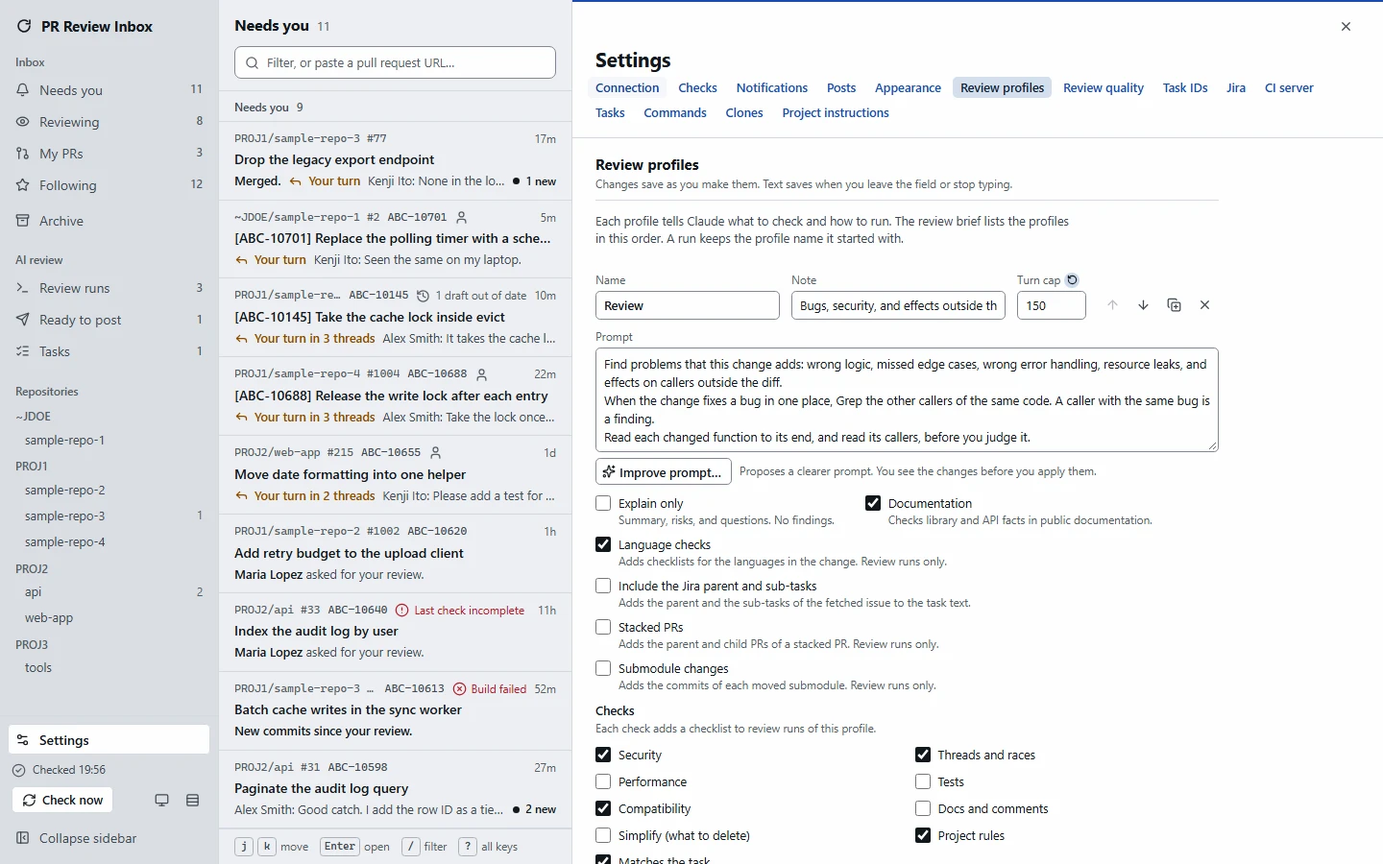
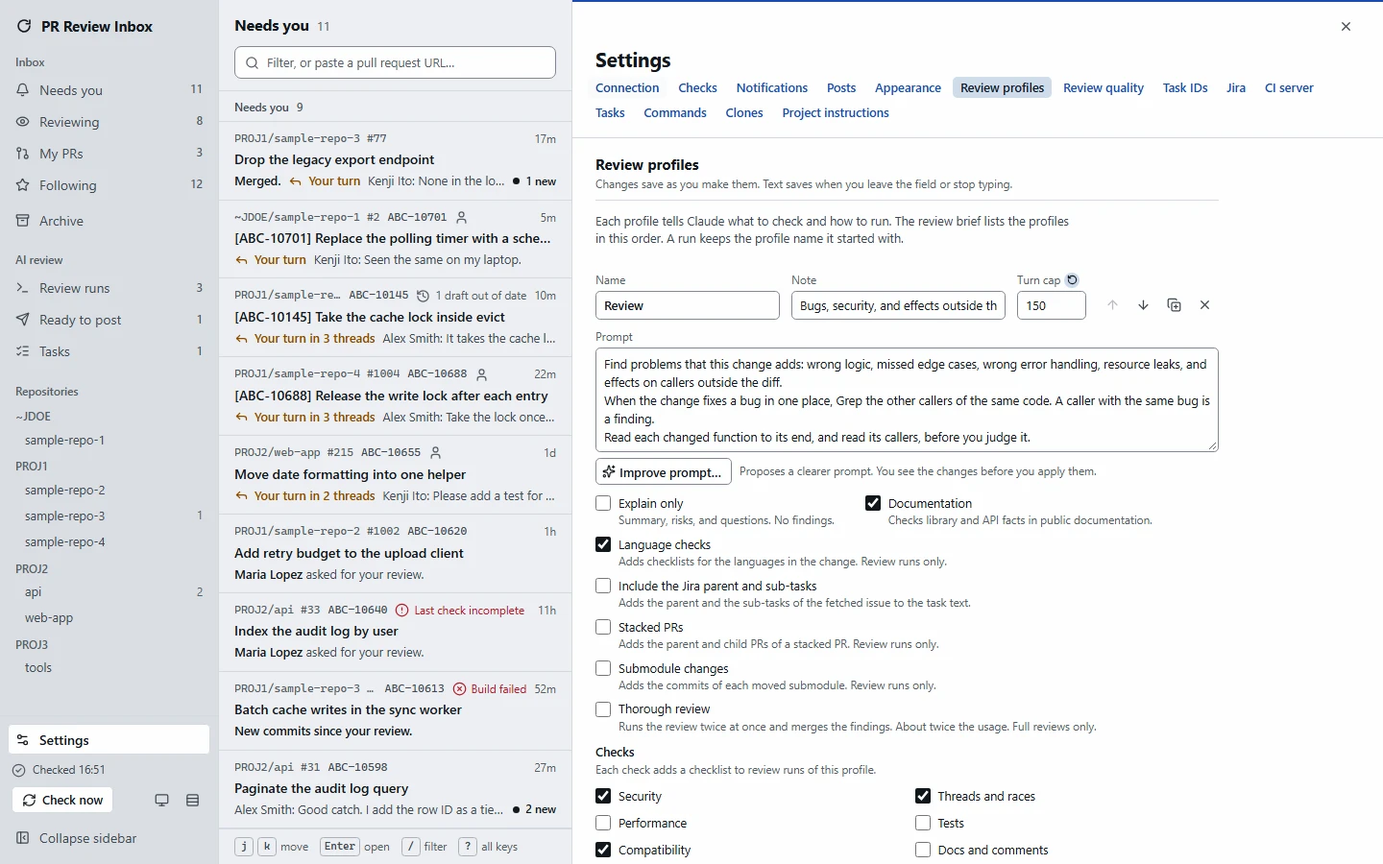
Add the profile switch Thorough review, show how many repeats it hid, and refuse an eval replay of it

Changed region(s): [[0.4062, 0.8089, 0.7812, 1.0]]

diff --git a/src/web/review/model.ts b/src/web/review/model.ts
@@ -695,6 +695,8 @@ export const checkChip = (it: ReviewItemDto, checked: boolean) =>
 export function checkText(it: ReviewItemDto): string | null {
   const v = (it.payload as FindingPayload).verify;
   if (!v?.reason.trim()) return null;
+  if (runCopy(it))
+    return `The other run of the Thorough review raised the same point${v.evidence.trim() ? ` (${v.evidence.trim()})` : ""}.`;
   return `Check: ${v.reason.trim()}${v.evidence.trim() ? ` (${v.evidence.trim()})` : ""}`;
 }
 
@@ -707,9 +709,18 @@ export function restoredNote(it: ReviewItemDto): string | null {
   return v === "refuted"
     ? "Refuted by the check. You restored it."
     : v === "duplicate"
-      ? "A duplicate by the check. You restored it."
+      ? runCopy(it)
+        ? "The other run of the Thorough review raised the same point. You restored it."
+        : "A duplicate by the check. You restored it."
       : null;
 }
+
+// docs/plans/review-v2/thorough-review.md D2: mergeRuns marks a hidden copy with verify.by "app", not the check.
+export const runCopy = (it: ReviewItemDto) => (it.payload as FindingPayload).verify?.by === "app";
+
+// thorough-review.md D5: the Run setup line of a Thorough review. null: a one-run review.
+export const runsText = (s: RunSummary | null | undefined) =>
+  s?.runs ? `${s.runs.count} runs at once. ${plural(s.runs.copies, "repeated finding")} hidden.` : null;
 
 // The title of a draft row. A finding from before review v2 has no title, so the row shows its body.
 export const draftTitle = (it: ReviewItemDto) => (it.kind === "finding" && (it.payload as FindingPayload).title?.trim()) || it.body;
@@ -746,11 +757,16 @@ export function ledgerParts(g: DraftGroups, qs: { n: number; first: number } | n
   ];
 }
 
-// spec.md section 1.1: "3 refuted by the check", "1 duplicate". Empty: none.
+// spec.md section 1.1: "3 refuted by the check", "1 duplicate", "2 repeats of the other run". Empty: none.
 export function hiddenParts(hidden: ReviewItemDto[]): string[] {
-  const dup = hidden.filter((i) => (i.payload as FindingPayload).verify?.verdict === "duplicate").length;
-  const refuted = hidden.length - dup;
-  return [refuted ? `${refuted} refuted by the check` : "", dup ? plural(dup, "duplicate") : ""].filter(Boolean);
+  const copies = hidden.filter(runCopy).length;
+  const dup = hidden.filter((i) => (i.payload as FindingPayload).verify?.verdict === "duplicate").length - copies;
+  const refuted = hidden.length - dup - copies;
+  return [
+    refuted ? `${refuted} refuted by the check` : "",
+    dup ? plural(dup, "duplicate") : "",
+    copies ? `${plural(copies, "repeat")} of the other run` : "",
+  ].filter(Boolean);
 }
 
 // docs/plans/review-v2/review-questions.md: the finder questions that the check answered. They are not posted. null: none, or a

diff --git a/tests/web/review-v2.test.ts b/tests/web/review-v2.test.ts
@@ -26,6 +26,7 @@ import {
   phaseParts,
   restoredNote,
   runningText,
+  runsText,
   SHOWN_CHECKS,
   VOLUME_LINE,
 } from "../../src/web/review/model";
@@ -123,6 +124,9 @@ describe("display groups per volume (spec.md section 1.4)", () => {
     expect(checkChip(back, g.checked)).toBe("Not checked");
     expect(restoredNote(back)).toBe("Refuted by the check. You restored it.");
     expect(restoredNote(finding(9, { verify: mark("duplicate") }))).toBe("A duplicate by the check. You restored it.");
+    expect(restoredNote(finding(9, { verify: mark("duplicate", { by: "app" }) }))).toBe(
+      "The other run of the Thorough review raised the same point. You restored it.",
+    );
     // Hidden, or discarded again by the user: no note.
     expect(restoredNote(SET[5] as ReviewItemDto)).toBeNull();
     expect(restoredNote(finding(10, { verify: mark("refuted") }, { status: "discarded" }))).toBeNull();
@@ -237,6 +241,25 @@ describe("ledger and refuted line", () => {
     expect(hiddenParts(groupsOf("balanced").hidden)).toEqual(["1 refuted by the check", "1 duplicate"]);
     expect(hiddenParts([SET[5] as ReviewItemDto, SET[5] as ReviewItemDto])).toEqual(["2 refuted by the check"]);
     expect(hiddenParts([])).toEqual([]);
+    // thorough-review.md D2: a copy that mergeRuns hid is no duplicate by the check.
+    const copy = (id: number) => finding(id, { verify: mark("duplicate", { by: "app" }) }, { status: "discarded" });
+    expect(hiddenParts([...groupsOf("balanced").hidden, copy(20), copy(21)])).toEqual([
+      "1 refuted by the check",
+      "1 duplicate",
+      "2 repeats of the other run",
+    ]);
+    expect(hiddenParts([copy(20)])).toEqual(["1 repeat of the other run"]);
+    const reason = { reason: "Run 1 of 2 raised the same point.", evidence: "src/cache.ts:41", by: "app" };
+    expect(checkText(finding(22, { verify: mark("duplicate", reason) }))).toBe(
+      "The other run of the Thorough review raised the same point (src/cache.ts:41).",
+    );
+  });
+
+  test("the Run setup line of a Thorough review counts its hidden copies (thorough-review.md D5)", () => {
+    expect(runsText(summary({ runs: { count: 2, copies: 3 } }))).toBe("2 runs at once. 3 repeated findings hidden.");
+    expect(runsText(summary({ runs: { count: 2, copies: 1 } }))).toBe("2 runs at once. 1 repeated finding hidden.");
+    expect(runsText(summary())).toBeNull();
+    expect(runsText(null)).toBeNull();
   });
 
   test("the run result leaves out the refuted points; a complete v2 run without findings names the checked areas", () => {

diff --git a/scripts/eval/run.ts b/scripts/eval/run.ts
@@ -119,7 +119,7 @@ export const USAGE = `Usage: bun run eval -- [--replies] [--real] [--set ${SET_N
 --rereview runs the re-review cases of the set: each case seeds its earlier run, then runs a re-review as the app does.
 --notes gives each local case the PR note of its source run, as the app did. Without it, each run has an empty note.
 --ordinals prints "case 1", "case 2" in place of the case IDs, and no error or coverage text of a run. The result file keeps them.
-Each run records its CLI calls in <result>.calls/. --replay-find takes the finder and salvage calls from the recording of that result and runs only the verify calls. It refuses a change of the finder setup.
+Each run records its CLI calls in <result>.calls/. --replay-find takes the finder and salvage calls from the recording of that result and runs only the verify calls. It refuses a change of the finder setup and the variant twice.
 --resume continues a cut result and writes to that file. It keeps the completed and incomplete runs and runs the other case runs. It refuses a change of the run setup.`;
 
 export type Options = {
@@ -327,6 +327,10 @@ export function replayRefusal(rec: EvalResult, o: Options, profile: Profile): st
   if (!!rec.requested?.notes !== o.notes) return `${it}: the recording ran ${o.notes ? "without" : "with"} --notes.`;
   if ((rec.set ?? "v1") !== o.set) return `${it}: the recording ran set ${rec.set ?? "v1"}, but this run has set ${o.set}.`;
   if (o.repeat > rec.repeat) return `${it}: the recording has ${rec.repeat} repeats, but this run asks for ${o.repeat}.`;
+  // thorough-review.md section 9: the recorder numbers a salvage call of "twice" in end order, so a replay can read the wrong call.
+  const twice = (v: unknown) => Array.isArray(v) && v.includes("twice");
+  if (twice(rec.profile.variants) || twice(profile.variants))
+    return `${it}: a Thorough review (variant twice) cannot replay. Its salvage calls have no stable order.`;
   const was = finderVersion(rec.promptVersion);
   const now = finderVersion(promptVersion(profile));
   if (was !== now) return `${it}: the recording ran finder prompt version ${was}, but this run has ${now}.`;

diff --git a/src/web/review/RunLine.tsx b/src/web/review/RunLine.tsx
@@ -34,7 +34,9 @@ import {
   type RunLineState,
   relatedWarnings,
   risksLabel,
+  runCopy,
   runningText,
+  runsText,
   setupText,
   shortHash,
   skillsText,
@@ -165,7 +167,7 @@ export function Refuted({
                   </span>
                 </p>
                 <p className="m-0 text-xs text-muted-foreground [overflow-wrap:anywhere]">
-                  {f.verify?.verdict === "duplicate" ? "The check found the same point in another draft. " : ""}
+                  {runCopy(it) ? "Hidden: " : f.verify?.verdict === "duplicate" ? "The check found the same point in another draft. " : ""}
                   <Inline text={checkText(it) ?? "The check gave no reason."} />
                 </p>
                 {/* items.ts refuses Restore for a finding without an anchor: a re-review found its code gone. */}
@@ -319,6 +321,7 @@ function RunRow({ row, first, meta, now, cancelling, onLog, onCancel, onAnswer, 
   const state = `${run.id}:${s.kind}:${s.kind === "running" ? (run.phase ?? "") : ""}`;
   const failedCheck = review && s.kind === "done" ? checkFailedText(run.summary) : null;
   const phases = review && s.kind === "done" ? phaseParts(run.summary) : [];
+  const runs = runsText(run.summary);
   const at = run.finishedAt ?? run.startedAt;
   // The log footer also shows the tokens. Here they stay in the hint.
   const tokens =
@@ -644,6 +647,11 @@ function RunRow({ row, first, meta, now, cancelling, onLog, onCancel, onAnswer, 
           {phases.length > 0 && (
             <li data-run-phases>
               <span className="text-muted-foreground">Steps:</span> {phaseParts(run.summary, true).join("; ")}
+            </li>
+          )}
+          {runs && (
+            <li data-run-twice>
+              <span className="text-muted-foreground">Thorough review:</span> {runs}
             </li>
           )}
           {run.consult && (

diff --git a/src/server/review/context-files.ts b/src/server/review/context-files.ts
@@ -270,8 +270,11 @@ function capped(blocks: string[][], max: number, left: (n: number) => string): {
 // withdrawn: the mark of a discuss run (spec.md section 2.2).
 function findingState(r: ItemRow): string {
   if (r.status !== "discarded") return r.status;
-  const p = JSON.parse(r.payload_json) as { discardedBy?: string; withdrawn?: unknown };
-  return p.discardedBy === "verify" ? "refuted by the check" : p.withdrawn ? "withdrawn in a talk" : "discarded by the user";
+  const p = JSON.parse(r.payload_json) as { discardedBy?: string; withdrawn?: unknown; verify?: { by?: string } };
+  // thorough-review.md D2: verify.by "app" marks a copy that mergeRuns hid.
+  if (p.discardedBy === "verify")
+    return p.verify?.by === "app" ? "hidden, the other run of the Thorough review raised the same point" : "refuted by the check";
+  return p.withdrawn ? "withdrawn in a talk" : "discarded by the user";
 }
 
 // docs/plans/review-v2/spec.md section 2.4: context/finding.md of a discuss run. The block of findingsFile, as a fix run sees the

diff --git a/tests/eval/harness.test.ts b/tests/eval/harness.test.ts
@@ -1077,6 +1077,12 @@ describe("eval harness with the fake CLI (AC-M3)", () => {
       // verifier-rule.md AC-R58: refute-issue changes only the verify prompts.
       expect(refusal(["--variants", "refute-issue"])).toBeNull();
       expect(refusal(["--variants", "broad"])).toContain("the recording ran finder prompt version");
+      // thorough-review.md section 9: twice in the recording or in this run is refused, also when both have it.
+      const twice = "a Thorough review (variant twice) cannot replay";
+      expect(refusal(["--variants", "twice"])).toContain(twice);
+      const twiceRec = { ...a, promptVersion: `${a.promptVersion}+twice`, profile: { ...a.profile, variants: ["twice"] } };
+      expect(refusal([], twiceRec)).toContain(twice);
+      expect(refusal(["--variants", "twice"], twiceRec)).toContain(twice);
       expect(refusal(["--variants", "verify2"], { ...a, promptVersion: `${a.promptVersion}+broad` })).toContain(
         `the recording ran finder prompt version ${a.promptVersion}+broad`,
       );

diff --git a/tests/ui/profiles.test.ts b/tests/ui/profiles.test.ts
@@ -457,12 +457,14 @@ describe("the no flag choice", () => {
   });
 });
 
-describe("stack and submodules switches", () => {
+describe("stack, submodules, and twice switches", () => {
   test("withVariant changes only its own name and keeps the VARIANTS order", () => {
     expect(withVariant(["runs3", "codegraph"], "stack", true)).toEqual(["codegraph", "runs3", "stack"]);
     expect(withVariant(["codegraph", "stack", "submodules"], "stack", false)).toEqual(["codegraph", "submodules"]);
     expect(withVariant([], "submodules", false)).toEqual([]);
     expect(withVariant(["submodules"], "submodules", true)).toEqual(["submodules"]);
+    expect(withVariant(["verify2", "stack"], "twice", true)).toEqual(["stack", "twice", "verify2"]);
+    expect(withVariant(["twice", "verify2"], "twice", false)).toEqual(["verify2"]);
   });
 
   test("an edit of the switch saves the server form, so the saved list compares equal", () => {

diff --git a/src/web/settings/profiles.ts b/src/web/settings/profiles.ts
@@ -74,7 +74,7 @@ export type Draft = {
   volume: ProfileInput["volume"];
   // outcome: what a refuted finding does (spec.md section 1.8).
   verifier: { mode: ProfileInput["verifier"]["mode"]; model: string; effort: Effort | ""; outcome: VerifierOutcome };
-  // docs/plans/review-v3.md WP-V2: eval switches. The editor has controls for "stack" and "submodules" only. A save keeps the others.
+  // docs/plans/review-v3.md WP-V2: eval switches. The editor has controls for "stack", "submodules", and "twice" only. A save keeps the others.
   variants: ProfileInput["variants"];
 };
 
@@ -470,6 +470,7 @@ export type Part =
   | "family"
   | "stack"
   | "submodules"
+  | "twice"
   | "model"
   | "model-id"
   | "effort"

diff --git a/src/web/settings/ReviewProfiles.tsx b/src/web/settings/ReviewProfiles.tsx
@@ -828,6 +828,13 @@ function ProfileRow(rowProps: RowProps) {
           checked={d.variants.includes("submodules")}
           onChange={(on) => edit({ variants: withVariant(d.variants, "submodules", on) })}
         />
+        <Toggle
+          id={profileId(i, "twice")}
+          label={<>Thorough review{of}</>}
+          help="Runs the review twice at once and merges the findings. About twice the usage. Full reviews only."
+          checked={d.variants.includes("twice")}
+          onChange={(on) => edit({ variants: withVariant(d.variants, "twice", on) })}
+        />
       </div>
       <ChecksField {...props} />
       <RunSetup {...props} found={found} />

diff --git a/tests/review/history.test.ts b/tests/review/history.test.ts
@@ -175,6 +175,11 @@ describe("historyFile", () => {
       ["discarded", "discarded by the user"],
       ["posted", "posted"],
       ["discarded", "refuted by the check", { discardedBy: "verify" }],
+      [
+        "discarded",
+        "hidden, the other run of the Thorough review raised the same point",
+        { discardedBy: "verify", verify: { verdict: "duplicate", by: "app" } },
+      ],
       ["discarded", "withdrawn in a talk", { withdrawn: { run: 9, reason: "R", was: "new" } }],
       // Restore after a talk keeps the mark, and the status names the state again.
       ["new", "new", { withdrawn: { run: 9, reason: "R", was: "new" } }],

diff --git a/CLAUDE.md b/CLAUDE.md
@@ -2,7 +2,7 @@
 
 PR Review Inbox is a local-first inbox for Bitbucket Server pull requests (PRs). It runs the user's own Claude Code CLI (`claude -p`) for reviews. The app runs on localhost and keeps all data on the user's machine. Its old names were Review Loop, Revido, and Kierto. Only the visible name changed: code identifiers, the `REVIEW_LOOP_*` environment variables, the data folder, the credential store service, and the `rl-` prefixes keep the old name, so existing user data keeps working.
 
-Status: Releases 1, 2, and 3 are code complete. Project instructions, always-use skills, language checks, the severity rubric, field-by-field profile upgrades, and "Copy to all profiles" are code complete after Release 3. The PR view v4 redesign (docs/plans/pr-view-v4.md) and the Fix redesign (docs/plans/fix-ux.md) are code complete. Session consult parts A, C, and D (docs/plans/session-consult.md) are code complete; part D adds "Judge and propose fixes". Part B was removed on 2026-10-20. The thread outcome plan (docs/plans/thread-outcome.md) is code complete, including P14 (thread history) and P16 (out-of-date draft alerts). Review v2 (docs/plans/review-v2/) parts 1 to 4 are code complete, including the finding discussion. BRIEF.md holds the part 6 (Build a Jira task) docs. Part 6 is code complete for small tasks (WP-B0 to WP-B5). Medium and large tasks (WP-B6 to WP-B10) are not started. The sub-task design (one branch and one PR per Jira sub-task) (spec 6.20, packages ST-G and ST1 to ST7) is code complete. Gate G19 and J1 to J3 pass; J4 and smoke-task.md part T (Gate UT) are open. Plan quality (spec 6.22, wave WPQ): WP-PQ-D, WP-PQ1 (app checks, contracts, risks), WP-PQ2 (related work), WP-PQ3 (plan check run), WP-PQ4 (repair round), and WP-PQ5 (UI) are built. Gate UP (smoke-task.md part PQ) is open. Task sessions (one Claude session per part, docs/plans/review-v2/part-session.md and ps6-ps7-plan.md): PS0, PS-M, PS1 to PS5, and PS6-A to PS6-C are built; PS7a, PS7b, PS9, and PS8 are not started. Review quality 2026 (docs/plans/review-v2/review-quality-2026.md): items 2, 5, and 9 shipped, and item 10 is an opt-in. Items 1, 3, and 4 failed in W2 and W3. Joint Gate A ran on 2026-11-20 (review-ledger.md). Prompt 2.9 ships the risk check (risk-check.md WP-RC3, without risk questions) and "preexisting" (review-v3.md WP-V6) as defaults. WP-RC4, WP-PR1, and WP-PR2 (postable-risks.md) are built: the run line lists each risk with its outcome and a link to its draft, and Review quality counts risks. Gate RC-B is open. The obligations check (obligations.md, WP-OB1, WP-OB2) and the variant "callers" (D2) stay opt-in. The variant "codegraph" (WP-V5) stays opt-in and never becomes a default (user, 2026-11-24). The seeded set (seeded-truth.md) has 33 seeds, and SG-A ran on 2026-11-23: it is a guard only, and paid recall work is paused. architecture-bugs.md adds a ninth seed kind, and the variant "architecture" is built as an opt-in (WP-AR1). The opt-in variants "minor-fold" and "refute-issue" (failed Gate VR-A) are built. Focused passes (focused-passes.md, variants lenses3 and runs3) are built opt-in (WP-L0 to WP-L2). WP-L3 (merge agent) and WP-LS (ship) are not built. Thorough review (docs/plans/review-v2/thorough-review.md, the opt-in variant "twice") is designed, and WP-T1a (the merge) is built but not wired. G-L0 failed on 2026-11-23, so G-L1 (runs3) does not run and the seeded G-L2 run is held. The natural-set run on 2026-11-25 rejected callers and lenses3 as defaults. Wave RP built the opt-in variants "stack" (stacked-prs.md, WP-SK0 to WP-SK3) and "submodules" (submodule-prs.md, WP-RP0, WP-SM0 to WP-SM3). Gates G9, G12, and G20 passed on 2026-11-24, so the stack branch reads (STACK_READS) and the open-PR reads of other PRs (PEER_READS) are on. Gates SK-P and SM-P passed. Open: Gates SK-B and SM-B (the user), and the shared ship step WP-SK4 with WP-SM4. review-ledger.md tracks every review improvement. Self-approved plans (docs/plans/review-v2/self-approved-plans.md): SA-D to SA-3 are built: medium builds one PR, and a large plan that the user approves builds as stacked part PRs. Gate UL-S is open. Task builder v2 (docs/plans/task-builder-v2.md) is designed and approved on 2026-11-19, and wave 1 (TB-D0 to TB-4, Gate U1) is in progress. Part 7 (Autopilot replies) is on hold. Jira Cloud is supported with an email and an API token; its facts stay unverified in integration-check.md. Layer A (build status from Bitbucket) of docs/plans/ci-builds.md is code complete; Layers B and C (Jenkins) are on hold. The Jira context design (docs/plans/review-v2/jira-context.md, fetch the task text at each PR run start) is approved and not started. Review v3 (docs/plans/review-v3.md): gate U-V1 found no variant better than prompt 2.3, and WP-V4 removed the lost variants. Wave 5 (recall on large PRs) stopped after its first gate, because the local set needs better ground truth. The app is named PR Review Inbox and is licensed AGPL-3.0-or-later. README.md, SECURITY.md, CONTRIBUTING.md, CHANGELOG.md, and .github/workflows/ci.yml prepare the public GitHub repository. The user runs docs/smoke-m1.md, smoke-v3.md (with part H for the PR view), smoke-m4.md, smoke-r2.md, and smoke-r3.md (with Gate B11, B12, and B15, part I for the prompt features, part J for Fix, and part K for session consult); see docs/plans/r2.md and r3.md. Do not assume that a file in the planned layout exists. Check first.
+Status: Releases 1, 2, and 3 are code complete. Project instructions, always-use skills, language checks, the severity rubric, field-by-field profile upgrades, and "Copy to all profiles" are code complete after Release 3. The PR view v4 redesign (docs/plans/pr-view-v4.md) and the Fix redesign (docs/plans/fix-ux.md) are code complete. Session consult parts A, C, and D (docs/plans/session-consult.md) are code complete; part D adds "Judge and propose fixes". Part B was removed on 2026-10-20. The thread outcome plan (docs/plans/thread-outcome.md) is code complete, including P14 (thread history) and P16 (out-of-date draft alerts). Review v2 (docs/plans/review-v2/) parts 1 to 4 are code complete, including the finding discussion. BRIEF.md holds the part 6 (Build a Jira task) docs. Part 6 is code complete for small tasks (WP-B0 to WP-B5). Medium and large tasks (WP-B6 to WP-B10) are not started. The sub-task design (one branch and one PR per Jira sub-task) (spec 6.20, packages ST-G and ST1 to ST7) is code complete. Gate G19 and J1 to J3 pass; J4 and smoke-task.md part T (Gate UT) are open. Plan quality (spec 6.22, wave WPQ): WP-PQ-D, WP-PQ1 (app checks, contracts, risks), WP-PQ2 (related work), WP-PQ3 (plan check run), WP-PQ4 (repair round), and WP-PQ5 (UI) are built. Gate UP (smoke-task.md part PQ) is open. Task sessions (one Claude session per part, docs/plans/review-v2/part-session.md and ps6-ps7-plan.md): PS0, PS-M, PS1 to PS5, and PS6-A to PS6-C are built; PS7a, PS7b, PS9, and PS8 are not started. Review quality 2026 (docs/plans/review-v2/review-quality-2026.md): items 2, 5, and 9 shipped, and item 10 is an opt-in. Items 1, 3, and 4 failed in W2 and W3. Joint Gate A ran on 2026-11-20 (review-ledger.md). Prompt 2.9 ships the risk check (risk-check.md WP-RC3, without risk questions) and "preexisting" (review-v3.md WP-V6) as defaults. WP-RC4, WP-PR1, and WP-PR2 (postable-risks.md) are built: the run line lists each risk with its outcome and a link to its draft, and Review quality counts risks. Gate RC-B is open. The obligations check (obligations.md, WP-OB1, WP-OB2) and the variant "callers" (D2) stay opt-in. The variant "codegraph" (WP-V5) stays opt-in and never becomes a default (user, 2026-11-24). The seeded set (seeded-truth.md) has 33 seeds, and SG-A ran on 2026-11-23: it is a guard only, and paid recall work is paused. architecture-bugs.md adds a ninth seed kind, and the variant "architecture" is built as an opt-in (WP-AR1). The opt-in variants "minor-fold" and "refute-issue" (failed Gate VR-A) are built. Focused passes (focused-passes.md, variants lenses3 and runs3) are built opt-in (WP-L0 to WP-L2). WP-L3 (merge agent) and WP-LS (ship) are not built. Thorough review (docs/plans/review-v2/thorough-review.md, the variant "twice") shipped opt-in after Gate T-0 and Gate T-P. Gate T-A does not run (user, 2026-11-25). G-L0 failed on 2026-11-23, so G-L1 (runs3) does not run and the seeded G-L2 run is held. The natural-set run on 2026-11-25 rejected callers and lenses3 as defaults. Wave RP built the opt-in variants "stack" (stacked-prs.md, WP-SK0 to WP-SK3) and "submodules" (submodule-prs.md, WP-RP0, WP-SM0 to WP-SM3). Gates G9, G12, and G20 passed on 2026-11-24, so the stack branch reads (STACK_READS) and the open-PR reads of other PRs (PEER_READS) are on. Gates SK-P and SM-P passed. Open: Gates SK-B and SM-B (the user), and the shared ship step WP-SK4 with WP-SM4. review-ledger.md tracks every review improvement. Self-approved plans (docs/plans/review-v2/self-approved-plans.md): SA-D to SA-3 are built: medium builds one PR, and a large plan that the user approves builds as stacked part PRs. Gate UL-S is open. Task builder v2 (docs/plans/task-builder-v2.md) is designed and approved on 2026-11-19, and wave 1 (TB-D0 to TB-4, Gate U1) is in progress. Part 7 (Autopilot replies) is on hold. Jira Cloud is supported with an email and an API token; its facts stay unverified in integration-check.md. Layer A (build status from Bitbucket) of docs/plans/ci-builds.md is code complete; Layers B and C (Jenkins) are on hold. The Jira context design (docs/plans/review-v2/jira-context.md, fetch the task text at each PR run start) is approved and not started. Review v3 (docs/plans/review-v3.md): gate U-V1 found no variant better than prompt 2.3, and WP-V4 removed the lost variants. Wave 5 (recall on large PRs) stopped after its first gate, because the local set needs better ground truth. The app is named PR Review Inbox and is licensed AGPL-3.0-or-later. README.md, SECURITY.md, CONTRIBUTING.md, CHANGELOG.md, and .github/workflows/ci.yml prepare the public GitHub repository. The user runs docs/smoke-m1.md, smoke-v3.md (with part H for the PR view), smoke-m4.md, smoke-r2.md, and smoke-r3.md (with Gate B11, B12, and B15, part I for the prompt features, part J for Fix, and part K for session consult); see docs/plans/r2.md and r3.md. Do not assume that a file in the planned layout exists. Check first.
 
 ## Document map
 

diff --git a/docs/plans/review-v2/review-ledger.md b/docs/plans/review-v2/review-ledger.md
@@ -15,7 +15,7 @@ Decision values: "user decided" means that the source records a user answer. "re
 - WP-JC5 and WP-JC-E are in progress on a branch. They are not on main.
 - The variant "obligations" now keeps a missing obligation anchored on an unchanged line, such as a doc line, when its cause is a changed line. Before, the validator dropped it. The probe set gets doc-line alts, an exact export-guard factor, and three new obligation cases (19 cases). The prompt without the variant is unchanged.
 - The verifier rule design exists (verifier-rule.md). Gate VR-0 passed narrowly on Gate A: 2.5 must-finds per repeat go to the fold as refuted. WP-VR1 builds the verify-only variant "refute-issue".
-- The shipped code now has 11 opt-in variants (dto.ts `VARIANTS`). The profile editor keeps `variants` on a save. It has switches for "stack" and "submodules" only. Only config.json sets the others.
+- The shipped code now has 11 opt-in variants (dto.ts `VARIANTS`). The profile editor keeps `variants` on a save. It has switches for "stack", "submodules", and "twice" only. Only config.json sets the others.
 - The user replaced the S_N noise ship rule on 2026-11-21 (review-quality-2026.md section 2). Noise now passes on the paired grounded noise delta, matched by case: at most 0.08 per case for a verify-only replay, and at most 10% of mean(A) for a full run. The paired judge fp delta per case run is at most 0.05 for a replay and 0.07 for a full run. The gate docs point to this rule. eval:compare prints both deltas, their limits, and pass or fail in its "Noise rule" block. It takes the replay limits when B replayed the finder.
 - Joint Gate A ran on 2026-11-20 at PROFILES_VERSION 9 and prompt 2.8 (docs/eval/results.md). Gate RC-A passes under the fallback of 2026-11-17: all five rules pass when the asked risk questions are dropped. WP-RC3 shipped in prompt 2.9 on 2026-11-21. Commit ed9fc03 is not in the run commit, so the variant "obligations" is not measured on current code. Not re-measured before 2.9 (decided by the user on 2026-11-21). Measure it soon as an early candidate on the seeded set against the SG-A baseline (prompt 2.9), where the seed kind omission tests it.
 - The user decided on 2026-11-21: postable-risks.md section 8, focused-passes.md section 11, architecture-bugs.md question 4, and WP-V7 (superseded by obligations). The reference of each ship step is the shipped default at run time.
@@ -85,7 +85,7 @@ Decision values: "user decided" means that the source records a user answer. "re
 | Probe thread as a counted must-find | review-ideas.md idea 2 | recommended | Not started | None | The eval runner needs seeded thread comments. |
 | Focused passes: variant lenses3 (WP-L0 to WP-L3) | focused-passes.md | recommended; section 11 user decided (2026-11-21) | Built opt-in (WP-L0 to WP-L2); WP-L3 not built; seeded run held | None | SG-A leaves no recall headroom, so G-L2 cannot pass "better" on the seeded set (2026-11-23). The seeded run is held. Pilot P-LC (lenses3,codegraph, 2026-11-23) failed on cost: 4.25x against the 3.2x limit, 0 of 4 never-found issues raised. The screen does not run (results.md). Natural-set pilot (2026-11-24, results.md): 3 passes ran, cost about 7x a baseline run on the same case ($5.13 against $0.74), 3 of 9 must-finds shown. Natural-set run on a fixed 10-case subset against baseline r6 (2026-11-25, results.md): grounded recall 42.9% against 35.7% (not significant), grounded noise 2.70 against 1.25 and judge fp 0.50 against 0.30 (noise rule fails), cost 4.8x. Does not ship; stays opt-in. The eval prints the pass rows, dupShown, and the noise parts. |
 | Control: variant runs3 (focused-passes.md section 4.7) | focused-passes.md | recommended | Built opt-in (WP-L1); does not run | SG-A union rows: Δu 3 seeds (9.1 points), S_R 4 seeds | G-L0 failed on SG-A (2026-11-23), so G-L1 does not run (question 4). |
-| Thorough review: variant "twice", WP-T0 to WP-T2, gates T-0, T-P, and T-A | thorough-review.md | user decided (opt-in switch, 2026-11-25) | Designed; WP-T1a built (the merge, not wired) | None | Gate T-0 (free), WP-T1b, WP-T1c, Gate T-P, WP-T2. Gate T-A is open with the user (Q2). |
+| Thorough review: variant "twice", WP-T0 to WP-T2, gates T-0 and T-P | thorough-review.md | user decided (opt-in switch, 2026-11-25; no Gate T-A) | Shipped opt-in: the profile switch "Thorough review" | Gate T-0 PASS: merged recall 29/60, grounded noise 2.49 per case. Gate T-P PASS (2 natural cases, repeat 1): cost factor 2.26 and 1.97, minutes factor 1.05 and 1.04, 3 hidden copies per case, shown must-finds 2/4 and 2/5 against baseline 2-3 of 4 and 2-3 of 5. | None. Gate T-A does not run. |
 | Variant "architecture" and seed kind "architecture" | architecture-bugs.md; review-quality-2026.md item 12 | user decided (requirement of 2026-11-21) | Opt-in | bb1afd0 | Ships inside "lenses3" L2, or with "callers" as the stacked candidate on the seeded set (both decided 2026-11-21). |
 | Seeded ground truth: WP-SG0 to WP-SG6, U-SG1, gates SG-P and SG-A | seeded-truth.md | user decided (build approved) | WP-SG0 to WP-SG6 built; U-SG1 under the floor (33 seeds); SG-P passed; SG-A ran (2026-11-23): fit by MDE, no recall headroom; guard only for now | 5537603, 8675012, 9ccbd67 (WP-SG2), 2a738c6 (WP-SG3), 1177784 (WP-SG4), None (WP-SG5), 95a5a73 (WP-SG6) | U-SG1 round 1 gave 0 usable seeds: 18 seeder runs ($10.54) gave 44 applied and 55 invalid; 44 validator runs ($5.09) gave 0 confirmed and 44 refuted. Refuted by a proof check stricter than the spec (20), severity below high (23), and verdict holds (1). Invalid by unknown file type (34), anchor (16), and other checks (5). Fix: the proof check follows section 5.4 (an entry with no reference is text, a bare file name resolves to one file), the prompts state the file types, the anchor rule, and the proof path form, `.cs` is a code type (section 14 row 14, orchestrator default), propose skips a host with no code change, and `eval:seed recheck` re-applies the keep conditions to stored answers at no cost. Next: recheck, then round 2. The per-kind floor warns only (seeded-truth.md section 14 row 13). architecture-bugs.md adds the ninth kind. WP-SG3 (2026-11-22, after two reviews of 14 and 23 seeds): the fold goes into the commit that changed the seeded lines (blame; the build computes it at no cost), the seeder prompt guards against giveaways and wrong kinds, the validator answers a required kind question, check 4 counts docstrings, check 11 (unused names) refuses before a validator run, twin hosts count once, the sample keeps the build caps, `decide --kind` relabels at keep, and `eval:seed report` lists old seeds that fail a check, check 11, or check 12 (giveaway tokens) by ID. WP-SG4 (2026-11-22): the middle rule (section 14 row 24) drops the design doc, commit message, and commit subject bans from the seeder prompt and the fold commit subject from check 12. Check 11 ignores words in strings and comments. A tenth kind "security" (section 4.5, row 25) comes first in the kind order, and the sample draws 4 second seeds, so it stays at 14. Next: run `report` and `build`, decide the listed seeds, and propose `--kinds security` on hosts with spare capacity. U-SG1 results (2026-11-22): three seeding rounds and a 9-seed validate step cost $41.67 (round 1 $15.63, round 2 $13.56, the 9-seed validate $0.48, round 3 $12.00: security propose $2.75, propose $6.06, validate $3.19). An AI review (xhigh with an advisor) checked every confirmed seed one by one under the middle rule. The round 1 and 2 sample is archived as `sample-r12.json`, so the user decides new seeds one by one. The built set has 12 cases, 21 seeds, 40 issues, fingerprint b0a1bd095b95, folds lines 21, 11 spares, and 0 security seeds. SG-A power: MDE about 24.7 points at 21 seeds against the bar of 18 points, so SG-A would fail fitness. Round 3 added only 2 usable seeds: the seeder saw no earlier seed (12 repeats), validate counted spares and ignored the one-seed-per-file cap, and propose ran full hosts. WP-SG5 (the fill fix) fixes all three. Estimated with WP-SG5 alone: 29 to 33 seeds, MDE 20 to 21.5 points. Estimated with hosts that have a merge commit in range (5 hosts; each merge brings the target branch into the PR branch, so the first-parent chain holds the PR commits): about 40 to 44 seeds in 18 groups, MDE 17.6 to 18.3 points. The user decided that support on 2026-11-22, and WP-SG6 builds it. A side-branch merge still blocks its host. A seed is refused when its fold commit is a merge or a later merge changes its file, so git show of a merge never prints a seed line (seeded-truth.md section 14 row 26). The seeds that this refusal costs are not counted. Round 4 (2026-11-22, $15.52) rebuilt the set: 16 cases, 33 seeds, fingerprint 756c4e2f53e3; kinds omission, leak, security, and architecture stay under the floor of 4. Gate SG-P passed on 2026-11-22 (2 of 2 runs, 2 of 2 seeds found, leaks 0, $1.51). Gate SG-A ran on 2026-11-23 at prompt 2.9 with repeat 3: 48 of 48 runs finished (1 incomplete, 0 failed), recall 90.9% per run, unionRecall(3) 100%, mean p(1-p) 0.047, S_R 4 seeds (12.1 points), MDE about 9 to 11 points (passes the bar of 18), grounded noise 0.54 per case, judge fp 0.00, leaks 0 of 137, cost $100.30 plus $2.11 labels. Ceiling: at most 3 seeds of gain, less than S_R, so no recall raiser can pass "better" on this set. The seeds are easy: 91% found against about 11% for the natural known issues on the same cases. The set is a guard for noise, regressions, and verify-only candidates for now. The next seeded-set candidate is obligations as a verify-only replay of SG-A. The headroom rule for set fitness (baseline recall at most about 70%) is a proposal pending the user (seeded-truth.md section 9). Results: docs/eval/results.md. Natural gold has stale carried copies (2026-11-24, results.md). |
 | Head-to-head with another review app | outside the repository | user decided ("not now") | Deferred | None | None. |
